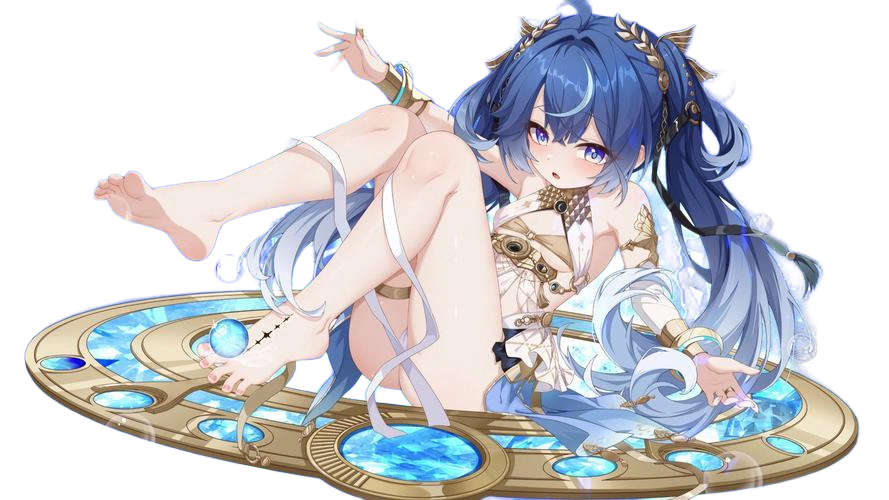
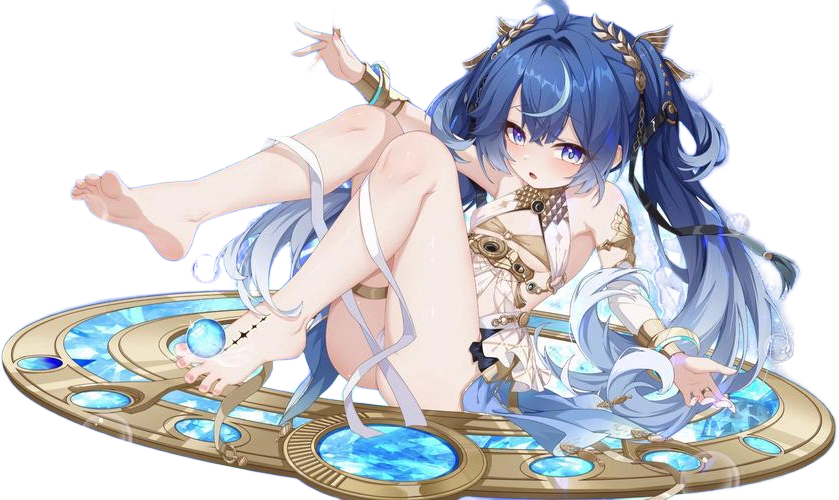
V9修复：design_1/2/3.png显示问题+随机形象功能重建 - design_1/2/3.png裁剪透明边距，缩小到最大1024像素 - 重新添加随机形象功能（之前丢失） - peeking帧只取前10帧加入随机池，提高design assets图片出现概率 - 启动时先显示第一张随机形象（design assets图片） - 随机形象池：design assets 6张 + peeking 10帧 + 情绪图片3张 - 每10秒随机切换，避免连续两次同一张 - 30秒稳定性：0崩溃，内存8.4MB

diff --git a/v9/src/iuno_pet_v7.py b/v9/src/iuno_pet_v7.py
@@ -307,6 +307,11 @@ class DangoWidget(QWidget):
         self._video_frames = []  # 平静状态视频帧
         self._video_idx = 0
         self._video_timer = None
+        # V9：随机形象
+        self._random_pixmaps = []  # 所有可用形象列表
+        self._random_current = None  # 当前随机形象
+        self._random_mode = True  # 默认启用随机模式
+        self._random_timer = None  # 每10秒切换定时器
         self._load_all()
 
         self._emotion = 'happy'
@@ -360,6 +365,26 @@ class DangoWidget(QWidget):
                 self._video_timer = QTimer(self)
                 self._video_timer.timeout.connect(self._video_tick)
                 self._video_timer.start(150)  # 降低帧率，减少CPU占用和重绘频率
+        # V9：加载design assets图片（design_*.png）
+        for f in sorted(os.listdir(DANGO_DIR)):
+            if f.startswith('design_') and f.lower().endswith('.png'):
+                try:
+                    pix = QPixmap(os.path.join(DANGO_DIR, f))
+                    if not pix.isNull():
+                        self._random_pixmaps.append(pix)
+                except Exception: pass
+        # V9：将peeking帧前10帧加入随机形象池
+        for pix in self._peeking_frames[:10]:
+            self._random_pixmaps.append(pix)
+        # V9：将现有情绪图片也加入随机形象池
+        for emo, pix in self._dango_pix.items():
+            self._random_pixmaps.append(pix)
+        # V9：启动每10秒随机切换定时器
+        if self._random_pixmaps:
+            self._random_current = self._random_pixmaps[0]  # 启动时先显示第一张
+            self._random_timer = QTimer(self)
+            self._random_timer.timeout.connect(self._switch_random_image)
+            self._random_timer.start(10000)  # 每10秒切换一次
 
     def _video_tick(self):
         try:
@@ -367,6 +392,19 @@ class DangoWidget(QWidget):
                 return
             self._video_idx = (self._video_idx + 1) % len(self._video_frames)
             if self._emotion == 'calm':
+                self.update()
+        except Exception:
+            pass
+
+    def _switch_random_image(self):
+        # V9：随机切换桌宠形象
+        try:
+            if self._random_pixmaps and self._random_mode:
+                # 避免连续两次选到同一张
+                new_pix = random.choice(self._random_pixmaps)
+                while len(self._random_pixmaps) > 1 and new_pix is self._random_current:
+                    new_pix = random.choice(self._random_pixmaps)
+                self._random_current = new_pix
                 self.update()
         except Exception:
             pass
@@ -476,7 +514,10 @@ class DangoWidget(QWidget):
         p.translate(int(cx), int(cy))
 
         draw_pix = None
-        if self._use_peeking and self._peeking_frames:
+        # V9：随机模式优先显示随机形象
+        if self._random_mode and self._random_current and not self._use_peeking:
+            draw_pix = self._random_current
+        elif self._use_peeking and self._peeking_frames:
             idx = int(t * 10) % len(self._peeking_frames)
             draw_pix = self._peeking_frames[idx]
         else:
